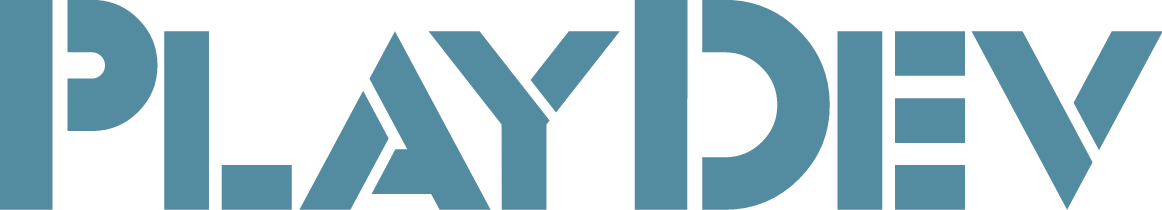
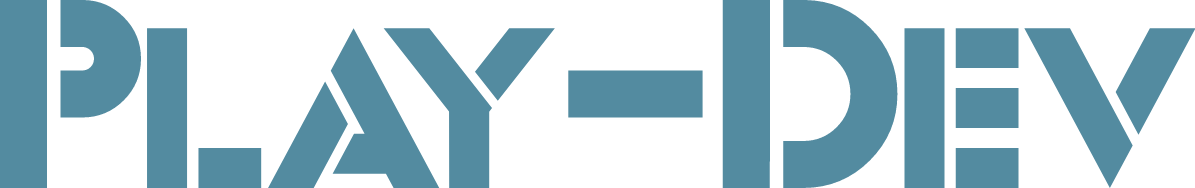
fix: standardize naming to "Play-Dev" across documentation and codebase

diff --git a/tests/unit/hooks/useAnnounce.test.tsx b/tests/unit/hooks/useAnnounce.test.tsx
@@ -6,13 +6,15 @@ import React from 'react';
 describe('useAnnounce', () => {
   it('announces message', () => {
     const announcerEl = document.createElement('div');
-    announcerEl.id = 'playdev-announcer';
+    announcerEl.id = 'play-dev-announcer';
     document.body.appendChild(announcerEl);
 
-    const wrapper = ({ children }: { children: React.ReactNode }) => <DebugProvider>{children}</DebugProvider>;
+    const wrapper = ({ children }: { children: React.ReactNode }) => (
+      <DebugProvider>{children}</DebugProvider>
+    );
     const { result } = renderHook(() => useAnnounce(), { wrapper });
     result.current('Test');
-    const announcer = document.getElementById('playdev-announcer');
+    const announcer = document.getElementById('play-dev-announcer');
     expect(announcer).toBeInTheDocument();
     expect(announcer).toHaveTextContent('Test');
 

diff --git a/tests/unit/utils/Portal.test.tsx b/tests/unit/utils/Portal.test.tsx
@@ -7,9 +7,11 @@ describe('Portal', () => {
     render(
       <Portal>
         <div>Portal content</div>
-      </Portal>
+      </Portal>,
     );
     expect(screen.getByText('Portal content')).toBeInTheDocument();
-    expect(document.getElementById('playdev-portal')).toContainElement(screen.getByText('Portal content'));
+    expect(document.getElementById('play-dev-portal')).toContainElement(
+      screen.getByText('Portal content'),
+    );
   });
 });

diff --git a/src/hooks/useAnnounce.ts b/src/hooks/useAnnounce.ts
@@ -5,7 +5,7 @@ export function useAnnounce() {
 
   const announce = (message: string, politeness: 'polite' | 'assertive' = 'polite') => {
     if (typeof window !== 'undefined') {
-      const announcer = document.getElementById('playdev-announcer');
+      const announcer = document.getElementById('play-dev-announcer');
       if (announcer) {
         announcer.setAttribute('aria-live', politeness);
         announcer.textContent = message;

diff --git a/src/utils/Portal.tsx b/src/utils/Portal.tsx
@@ -6,7 +6,7 @@ interface PortalProps {
   containerId?: string;
 }
 
-export const Portal: FC<PortalProps> = ({ children, containerId = 'playdev-portal' }) => {
+export const Portal: FC<PortalProps> = ({ children, containerId = 'play-dev-portal' }) => {
   const [container, setContainer] = useState<HTMLElement | null>(null);
 
   useEffect(() => {

diff --git a/scripts/generate-docs-md.ts b/scripts/generate-docs-md.ts
@@ -156,5 +156,5 @@ const lines = [
   ),
 ];
 
-writeFileSync(OUT, `# PlayDev API Reference\n\n${lines.join('\n')}\n`);
+writeFileSync(OUT, `# Play-Dev API Reference\n\n${lines.join('\n')}\n`);
 console.log(`docs.md written: ${rows.length} entries`);

diff --git a/src/components/menu/MainMenu.tsx b/src/components/menu/MainMenu.tsx
@@ -34,7 +34,7 @@ const MenuTitle = styled.h1`
 export const MainMenu: React.FC<MainMenuProps> = ({
   version,
   backgroundImage,
-  title = 'PLAYDEV',
+  title = 'PLAY-DEV',
   onStart,
   onLoad,
   onSettings,

diff --git a/README.md b/README.md
@@ -1,4 +1,4 @@
-# PLAYDEV: The Premier React UI Component Library for Game Development
+# PLAY-DEV: The Premier React UI Component Library for Game Development
 
 <div align="left">
   <br />
@@ -13,20 +13,20 @@
   <br />
 </div>
 
-![PlayDev](./banner.png)
+![Play-Dev](./banner.png)
 
-**PLAYDEV** is a comprehensive, mature, and enterprise-grade React component system designed for building immersive game interfaces. It provides over 60+ production-ready components, powerful hooks, and a strict separation of concerns between runtime game UI (PlayMode) and development tooling (DevMode).
+**PLAY-DEV** is a comprehensive, mature, and enterprise-grade React component system designed for building immersive game interfaces. It provides over 60+ production-ready components, powerful hooks, and a strict separation of concerns between runtime game UI (PlayMode) and development tooling (DevMode).
 
-[![npm version](https://img.shields.io/badge/npm-v1.0.0-blue)](https://www.npmjs.com/package/playdev)
+[![npm version](https://img.shields.io/badge/npm-v1.0.0-blue)](https://www.npmjs.com/package/play-dev)
 [![license](https://img.shields.io/badge/license-MIT-green)](https://opensource.org/licenses/MIT)
 [![types](https://img.shields.io/badge/types-TypeScript-blue)](https://www.typescriptlang.org/)
 [![PRs Welcome](https://img.shields.io/badge/PRs-welcome-brightgreen.svg)](http://makeapullrequest.com)
 
 ---
 
-## Why PLAYDEV?
+## Why PLAY-DEV?
 
-Building a game's UI in React often means reinventing the wheel—creating health bars, inventory grids, dialogue systems, and debug overlays for each new project. PLAYDEV eliminates this repetitive work by offering a suite of **battle-tested, accessible, and highly customizable components**, allowing you to focus on your game's unique mechanics and content.
+Building a game's UI in React often means reinventing the wheel—creating health bars, inventory grids, dialogue systems, and debug overlays for each new project. PLAY-DEV eliminates this repetitive work by offering a suite of **battle-tested, accessible, and highly customizable components**, allowing you to focus on your game's unique mechanics and content.
 
 - **PlayMode & DevMode**: A strict architectural split ensures that debug components (inspector, console) are never bundled into your production game.
 - **Theming**: A centralized `DesignTokens` system via `ThemeProvider` allows for complete visual rebranding with minimal effort.
@@ -52,9 +52,9 @@ Building a game's UI in React often means reinventing the wheel—creating healt
 Install the package along with its peer dependencies:
 
 ```bash
-npm install playdev react react-dom styled-components
+npm install play-dev react react-dom styled-components
 # or
-yarn add playdev react react-dom styled-components
+yarn add play-dev react react-dom styled-components
 ```
 
 ## Quickstart
@@ -63,7 +63,7 @@ Get a health bar and button on screen in seconds:
 
 ```tsx
 import React from 'react';
-import { ThemeProvider, GameStateProvider, HealthBar, Button } from 'playdev';
+import { ThemeProvider, GameStateProvider, HealthBar, Button } from 'play-dev';
 
 const App = () => {
   return (
@@ -92,7 +92,7 @@ For a complete list of components, hooks, and their APIs, please refer to the de
 
 ## Testing
 
-PLAYDEV is extensively tested using Jest and React Testing Library.
+PLAY-DEV is extensively tested using Jest and React Testing Library.
 
 ```bash
 npm test
@@ -100,7 +100,7 @@ npm test
 
 ## Contributing
 
-We welcome contributions! Please see our [Contributing Guidelines](https://github.com/girish-kor/playdev/blob/main/CONTRIBUTING.md) for more details.
+We welcome contributions! Please see our [Contributing Guidelines](https://github.com/girish-kor/play-dev/blob/main/CONTRIBUTING.md) for more details.
 
 1.  Fork the repository.
 2.  Create your feature branch (`git checkout -b feature/amazing-feature`).

diff --git a/.github/ISSUE_TEMPLATE/bug_report.md b/.github/ISSUE_TEMPLATE/bug_report.md
@@ -30,4 +30,4 @@ If applicable, add screenshots to help explain your problem.
 - OS: [e.g., Windows 11]
 - Browser: [e.g., Chrome 120]
 - Node version: [e.g., 20.0.0]
-- PLAYDEV version: [e.g., 1.0.0]
+- PLAY-DEV version: [e.g., 1.0.0]

diff --git a/Document.md b/Document.md
@@ -1,4 +1,4 @@
-# PlayDev API Reference
+# Play-Dev API Reference
 
 | Name | Kind | Category | Props / Params |
 |---|---|---|---|
